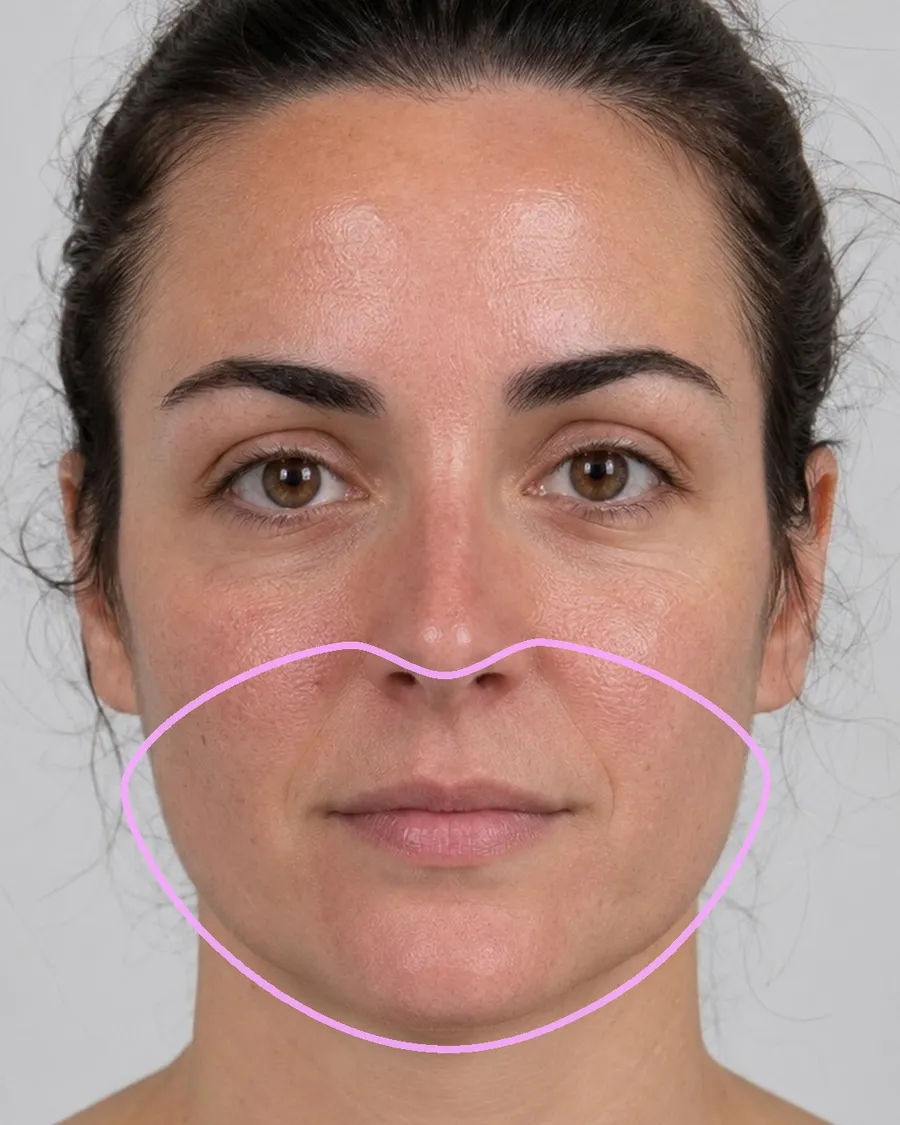
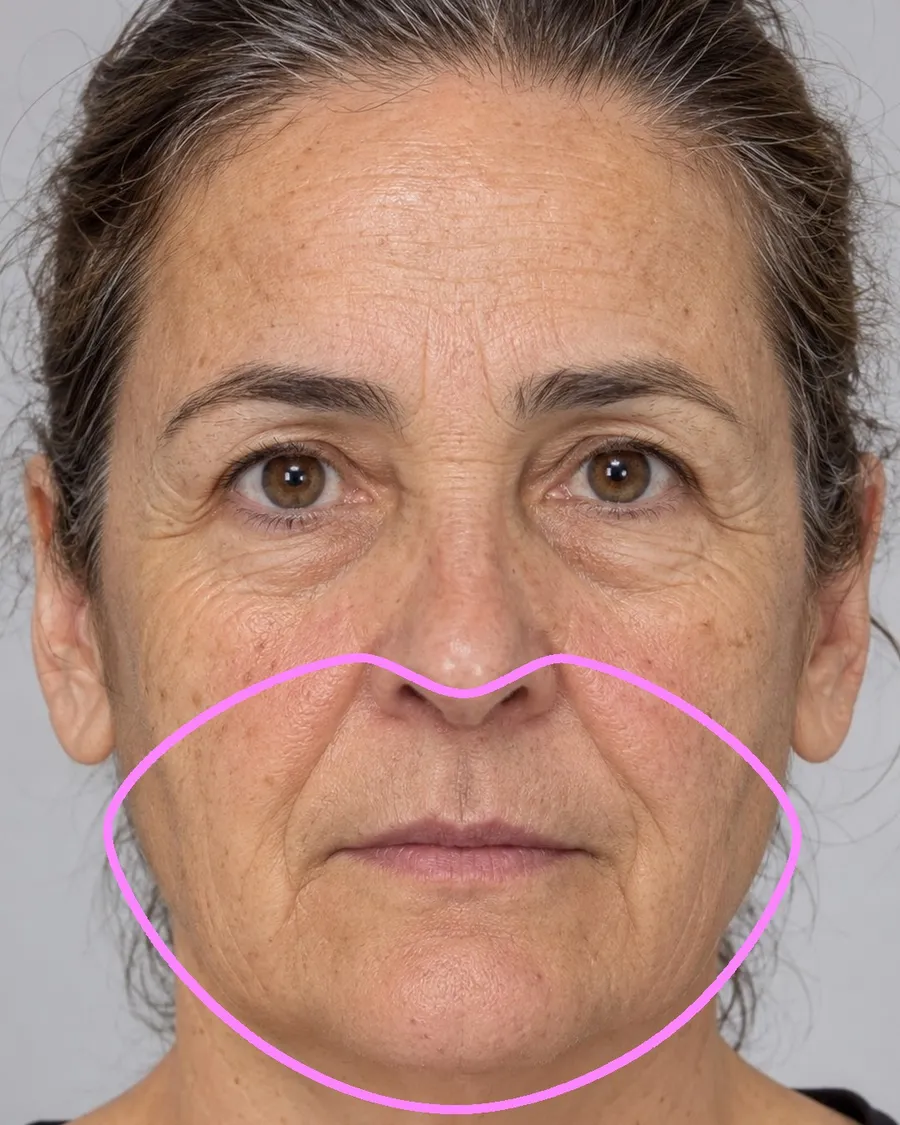
Opción D: análisis en directo con la cara de 55 años y sus imágenes reales de Perfect Corp
Claude-Session: https://claude.ai/code/session_017CM5mKhXddryfR2eeZGwR9

diff --git a/src/components/web/paneles/PanelEnVivo.tsx b/src/components/web/paneles/PanelEnVivo.tsx
@@ -1,0 +1,179 @@
+'use client'
+/* eslint-disable @next/next/no-img-element */
+import { useEffect, useRef, useState } from 'react'
+import { DESTACADAS, EDAD, GLOBAL, PRIMERO, nivel, valor } from './ejemplo'
+
+// El análisis "en directo": escaneo de la cara, las 11 zonas una a una con la imagen real que devuelve la API
+// y su punta del radar subiendo a la vez, y al final el resultado. En bucle; al tocar un paso se queda fijo.
+
+const ZONAS: [string, string][] = [
+  ['Arrugas', 'arrugas'], ['Manchas', 'manchas'], ['Poros', 'poros'], ['Brillo', 'brillo'], ['Rojez', 'rojez'], ['Textura', 'textura'],
+  ['Hidratación', 'hidratacion'], ['Ojeras', 'ojeras'], ['Firmeza', 'firmeza'], ['Acné', 'acne'], ['Luminosidad', 'luminosidad'],
+]
+const N = ZONAS.length
+const PASOS = N + 2 // 0 = escaneo, 1..N = zonas, N+1 = resultado
+const DURACION = (p: number) => (p === 0 ? 2400 : p === N + 1 ? 5200 : 1500)
+
+// Radar
+const C = 250
+const R = 180
+const PASO_ANG = 360 / N
+const pol = (rad: number, k: number) => {
+  const t = ((k * PASO_ANG - 90) * Math.PI) / 180
+  return [C + rad * Math.cos(t), C + rad * Math.sin(t)] as const
+}
+const anillo = (v: number) => ZONAS.map((_, k) => pol((R * v) / 100, k).join(',')).join(' ')
+const ANILLOS: [number, string][] = [[25, 'Leve'], [50, 'Moderado'], [70, 'Marcado'], [100, '']]
+
+function Radar({ vals, actual, nombres = true }: { vals: number[]; actual: number; nombres?: boolean }) {
+  const forma = ZONAS.map((_, k) => pol((R * vals[k]) / 100, k).join(',')).join(' ')
+  return (
+    <svg viewBox={nombres ? '-20 10 540 480' : '30 30 440 440'} className="w-full h-auto overflow-visible" role="img" aria-label="Radar con las once medidas de la piel">
+      {ANILLOS.map(([v, t]) => (
+        <g key={v}>
+          <polygon points={anillo(v)} fill="none" stroke="var(--color-rule)" strokeDasharray={v === 100 ? undefined : '3 4'} />
+          {t && nombres && <text x={C + 5} y={C - (R * v) / 100 - 4} fontSize={10.5} fill="var(--color-muted)">{t}</text>}
+        </g>
+      ))}
+      {ZONAS.map(([a], k) => { const [x, y] = pol(R, k); return <line key={a} x1={C} y1={C} x2={x} y2={y} stroke={k === actual ? 'var(--color-accent)' : 'var(--color-rule)'} strokeOpacity={k === actual ? 0.5 : 1} /> })}
+      <polygon points={forma} fill="var(--color-accent)" fillOpacity={0.14} stroke="var(--color-accent)" strokeWidth={1.75} strokeLinejoin="round" />
+      {ZONAS.map(([a], k) => {
+        const v = vals[k]
+        const hecho = v > 0.5
+        const alto = DESTACADAS.includes(a)
+        const [x, y] = pol((R * v) / 100, k)
+        const [lx, ly] = pol(R + (nombres ? 22 : 24), k)
+        const ancla = Math.abs(lx - C) < 14 ? 'middle' : lx > C ? 'start' : 'end'
+        const activo = k === actual
+        return (
+          <g key={a}>
+            {hecho && <circle cx={x} cy={y} r={activo ? 5.5 : alto ? 4.5 : 3} fill={alto || activo ? 'var(--color-accent)' : 'var(--color-paper)'} stroke="var(--color-accent)" strokeWidth={1.5} />}
+            {nombres ? (
+              <>
+                <text x={lx} y={ly - 2} textAnchor={ancla} fontSize={14} fontWeight={activo ? 600 : 400} fill={activo ? 'var(--color-accent)' : 'var(--color-ink-2)'}>{a}</text>
+                <text x={lx} y={ly + 16} textAnchor={ancla} fontSize={16} fontWeight={500} fill={alto || activo ? 'var(--color-accent)' : 'var(--color-muted)'} style={{ fontVariantNumeric: 'tabular-nums' }}>{hecho ? Math.round(v) : '–'}</text>
+              </>
+            ) : (
+              <text x={lx} y={ly + 8} textAnchor={ancla} fontSize={24} fontWeight={500} fill={activo || alto ? 'var(--color-accent)' : 'var(--color-ink-2)'}>{k + 1}</text>
+            )}
+          </g>
+        )
+      })}
+    </svg>
+  )
+}
+
+export function PanelEnVivo() {
+  const [paso, setPaso] = useState(N + 1)
+  const [fijo, setFijo] = useState(false)
+  const [vals, setVals] = useState<number[]>(() => ZONAS.map(([a]) => valor(a)))
+  const [global, setGlobal] = useState(GLOBAL)
+  const quieto = useRef(false)
+
+  // Arranca la secuencia (si el usuario no pide menos movimiento)
+  useEffect(() => {
+    quieto.current = window.matchMedia('(prefers-reduced-motion: reduce)').matches
+    if (!quieto.current) setPaso(0)
+  }, [])
+
+  // Avance automático
+  useEffect(() => {
+    if (fijo || quieto.current) return
+    const t = setTimeout(() => setPaso((p) => (p + 1) % PASOS), DURACION(paso))
+    return () => clearTimeout(t)
+  }, [paso, fijo])
+
+  // Valores del radar y puntuación, animados hacia su objetivo en cada paso
+  useEffect(() => {
+    const objetivo = ZONAS.map(([a], k) => (paso === N + 1 || k < paso ? valor(a) : 0))
+    const objGlobal = paso === N + 1 ? GLOBAL : 0
+    if (quieto.current) { setVals(objetivo); setGlobal(objGlobal); return }
+    let raf = 0
+    const ini = performance.now()
+    const desde = [...vals]
+    const desdeG = global
+    const dur = paso === 0 ? 400 : 700
+    const tick = (t: number) => {
+      const e = Math.min(1, (t - ini) / dur)
+      const s = 1 - Math.pow(1 - e, 3)
+      setVals(desde.map((d, k) => d + (objetivo[k] - d) * s))
+      setGlobal(desdeG + (objGlobal - desdeG) * s)
+      if (e < 1) raf = requestAnimationFrame(tick)
+    }
+    raf = requestAnimationFrame(tick)
+    return () => cancelAnimationFrame(raf)
+  }, [paso]) // eslint-disable-line react-hooks/exhaustive-deps
+
+  const zona = paso >= 1 && paso <= N ? paso - 1 : -1
+  const fin = paso === N + 1
+  const rotulo = paso === 0 ? 'Escaneando la cara…' : fin ? 'Análisis completo' : `Analizando ${ZONAS[zona][0].toLowerCase()}…`
+
+  return (
+    <figure className="m-0" aria-label="Demostración del análisis facial: la foto se escanea, se analizan las once zonas y sale el resultado">
+      <div className="grid md:grid-cols-[minmax(0,5fr)_minmax(0,7fr)] border border-linea rounded-[var(--radius-card)] bg-papel overflow-hidden">
+        {/* Foto con las zonas */}
+        <div className="relative aspect-[4/5] md:aspect-auto md:min-h-[34rem] bg-suave overflow-hidden border-b md:border-b-0 md:border-r border-linea">
+          <img src="/ejemplos/zonas/foto.webp" alt="Cara de ejemplo generada con IA" className="absolute inset-0 w-full h-full object-cover" />
+          {ZONAS.map(([n, f], k) => (
+            <img key={f} src={`/ejemplos/zonas/${f}.webp`} alt="" aria-hidden loading={k < 3 ? 'eager' : 'lazy'}
+              className="absolute inset-0 w-full h-full object-cover transition-opacity duration-500" style={{ opacity: k === zona ? 1 : 0 }} data-zona={n} />
+          ))}
+          {/* Encuadre y escaneo */}
+          <div aria-hidden className="pointer-events-none absolute inset-x-6 top-6 bottom-14 transition-opacity duration-500" style={{ opacity: fin ? 0 : 1 }}>
+            {['top-0 left-0 border-t-2 border-l-2 rounded-tl-lg', 'top-0 right-0 border-t-2 border-r-2 rounded-tr-lg', 'bottom-0 left-0 border-b-2 border-l-2 rounded-bl-lg', 'bottom-0 right-0 border-b-2 border-r-2 rounded-br-lg'].map((c) => (
+              <span key={c} className={`absolute w-8 h-8 border-white/90 ${c}`} />
+            ))}
+            {paso === 0 && <span className="absolute inset-0 overflow-hidden"><span className="sc-escaneo block h-full border-b-2 border-white" style={{ background: 'linear-gradient(to bottom, transparent 70%, rgba(255,255,255,.35))' }} /></span>}
+          </div>
+          {/* Rótulo del paso */}
+          <div className="absolute left-4 top-4 bg-papel/95 border border-linea rounded-[var(--radius-input)] px-3 py-2 text-sm" aria-live="polite">
+            <span className="flex items-center gap-2 text-gris">
+              <span className={`size-2 rounded-full ${fin ? 'bg-marca' : 'bg-marca animate-pulse'}`} />{rotulo}
+            </span>
+            {zona >= 0 && <span className="block font-medium mt-0.5">{ZONAS[zona][0]} <span className="cifra text-marca">{valor(ZONAS[zona][0])}</span> <span className="text-gris font-normal">{nivel(valor(ZONAS[zona][0]))}</span></span>}
+          </div>
+          {/* Progreso por pasos */}
+          <div className="absolute inset-x-4 bottom-4 flex gap-1" role="tablist" aria-label="Pasos del análisis">
+            {Array.from({ length: PASOS }, (_, p) => {
+              const nombre = p === 0 ? 'Escaneo' : p === N + 1 ? 'Resultado' : ZONAS[p - 1][0]
+              return (
+                <button key={p} role="tab" aria-selected={p === paso} aria-label={nombre} title={nombre}
+                  onClick={() => { setPaso(p); setFijo(true) }} className="group flex-1 h-6 grid items-center">
+                  <span className={`block h-1 rounded-full transition-colors ${p <= paso ? 'bg-white' : 'bg-white/40'} group-hover:bg-white`} />
+                </button>
+              )
+            })}
+          </div>
+        </div>
+
+        {/* Resultado */}
+        <div className="p-6 lg:p-8 grid gap-4 content-start">
+          <div className="flex flex-wrap items-end justify-between gap-x-8 gap-y-4">
+            <div>
+              <p className="text-sm text-gris m-0">Puntuación de la piel</p>
+              <p className="cifra text-[4rem] leading-none font-medium text-tinta mt-2 mb-0">{fin || global > 0.5 ? Math.round(global) : '–'}<span className="text-lg text-gris font-normal tracking-normal"> /100</span></p>
+            </div>
+            <dl className="flex gap-8 text-sm m-0 transition-opacity duration-500" style={{ opacity: fin ? 1 : 0.35 }}>
+              <div><dt className="text-gris">Edad aparente</dt><dd className="m-0 mt-1 text-lg font-medium">{fin ? <><span className="cifra">{EDAD}</span> años</> : '…'}</dd></div>
+              <div><dt className="text-gris">A trabajar primero</dt><dd className="m-0 mt-1 text-lg font-medium">{fin ? PRIMERO : '…'}</dd></div>
+            </dl>
+          </div>
+          <div className="hidden md:block max-w-[36rem] w-full mx-auto pt-4"><Radar vals={vals} actual={zona} /></div>
+          <div className="md:hidden grid gap-5 pt-2">
+            <div className="max-w-[17rem] w-full mx-auto"><Radar vals={vals} actual={zona} nombres={false} /></div>
+            <ol className="grid grid-cols-2 gap-x-5 gap-y-2 text-sm m-0 p-0 list-none">
+              {ZONAS.map(([a], k) => (
+                <li key={a} className="grid grid-cols-[1.25rem_minmax(0,1fr)_auto] gap-1.5 items-baseline border-b border-linea pb-2">
+                  <span className="cifra text-xs text-gris">{k + 1}</span>
+                  <span className={`truncate ${k === zona ? 'text-marca font-medium' : ''}`}>{a}</span>
+                  <span className={`cifra ${DESTACADAS.includes(a) || k === zona ? 'text-marca' : 'text-gris'}`}>{vals[k] > 0.5 ? Math.round(vals[k]) : '–'}</span>
+                </li>
+              ))}
+            </ol>
+          </div>
+        </div>
+      </div>
+      <figcaption className="mt-3 text-sm text-gris">Resultado real del análisis sobre una cara generada con IA. Más hacia fuera, más marcado.</figcaption>
+    </figure>
+  )
+}

diff --git a/src/app/opciones-panel/page.tsx b/src/app/opciones-panel/page.tsx
@@ -3,13 +3,13 @@ import { PanelAnalisis } from '@/components/web/PanelAnalisis'
 import { PanelMapa } from '@/components/web/paneles/PanelMapa'
 import { PanelInforme } from '@/components/web/paneles/PanelInforme'
 import { PanelDial } from '@/components/web/paneles/PanelDial'
-import { PanelFotoRadar } from '@/components/web/paneles/PanelFotoRadar'
+import { PanelEnVivo } from '@/components/web/paneles/PanelEnVivo'
 
 // Página temporal para elegir el panel de la portada. Se borra al decidir.
 export const metadata: Metadata = { title: 'Opciones del panel · SkinCheck', robots: { index: false } }
 
 const OPCIONES = [
-  ['D', 'Cara y radar', 'Las imágenes reales que devuelve el análisis, pasando zona a zona, y a la derecha las once medidas en radar.', <PanelFotoRadar key="e" />],
+  ['D', 'Análisis en directo', 'La cara se escanea, se analizan las once zonas una a una con las imágenes reales de la API y sale el resultado. En bucle; al tocar un paso se queda fijo.', <PanelEnVivo key="e" />],
   ['A', 'Mapa facial', 'Cada medida señalada en su zona de la cara, con la malla del iPad.', <PanelMapa key="a" />],
   ['B', 'Informe con rango', 'Como una analítica: cada medida sobre las bandas bien, leve, moderado y marcado.', <PanelInforme key="b" />],
   ['C', 'Esfera', 'La puntuación en el centro y las once medidas en radios.', <PanelDial key="c" />],

diff --git a/src/components/web/paneles/ejemplo.ts b/src/components/web/paneles/ejemplo.ts
@@ -1,12 +1,12 @@
-// Resultado real de Perfect Corp sobre una cara generada con IA (public/ejemplos/cara-ia-analisis.jpg), 23/11/2026.
+// Resultado real de Perfect Corp sobre una cara generada con IA (mujer de unos 55 años, public/ejemplos/cara-ia-55.jpg), 23/11/2026.
 // Escala 0 a 100, más alto = más marcado, con los cortes del informe de la clienta (Leve 25, Moderado 50, Marcado 70).
 export const MEDIDAS: [string, number][] = [
-  ['Textura', 35], ['Brillo', 33], ['Rojez', 32], ['Ojeras', 31], ['Poros', 30], ['Hidratación', 30],
-  ['Manchas', 25], ['Arrugas', 23], ['Firmeza', 22], ['Luminosidad', 20], ['Acné', 9],
+  ['Firmeza', 43], ['Luminosidad', 40], ['Arrugas', 39], ['Hidratación', 39], ['Textura', 36], ['Manchas', 34],
+  ['Poros', 33], ['Brillo', 31], ['Rojez', 27], ['Ojeras', 23], ['Acné', 12],
 ]
 export const valor = (a: string) => MEDIDAS.find(([n]) => n === a)![1]
 export const nivel = (v: number) => (v >= 70 ? 'Marcado' : v >= 50 ? 'Moderado' : v >= 25 ? 'Leve' : 'Bien')
-export const GLOBAL = 74
-export const EDAD = 37
-export const PRIMERO = 'Textura y brillo'
-export const DESTACADAS = ['Textura', 'Brillo']
+export const GLOBAL = 68
+export const EDAD = 61
+export const PRIMERO = 'Firmeza y arrugas'
+export const DESTACADAS = ['Firmeza', 'Arrugas']
